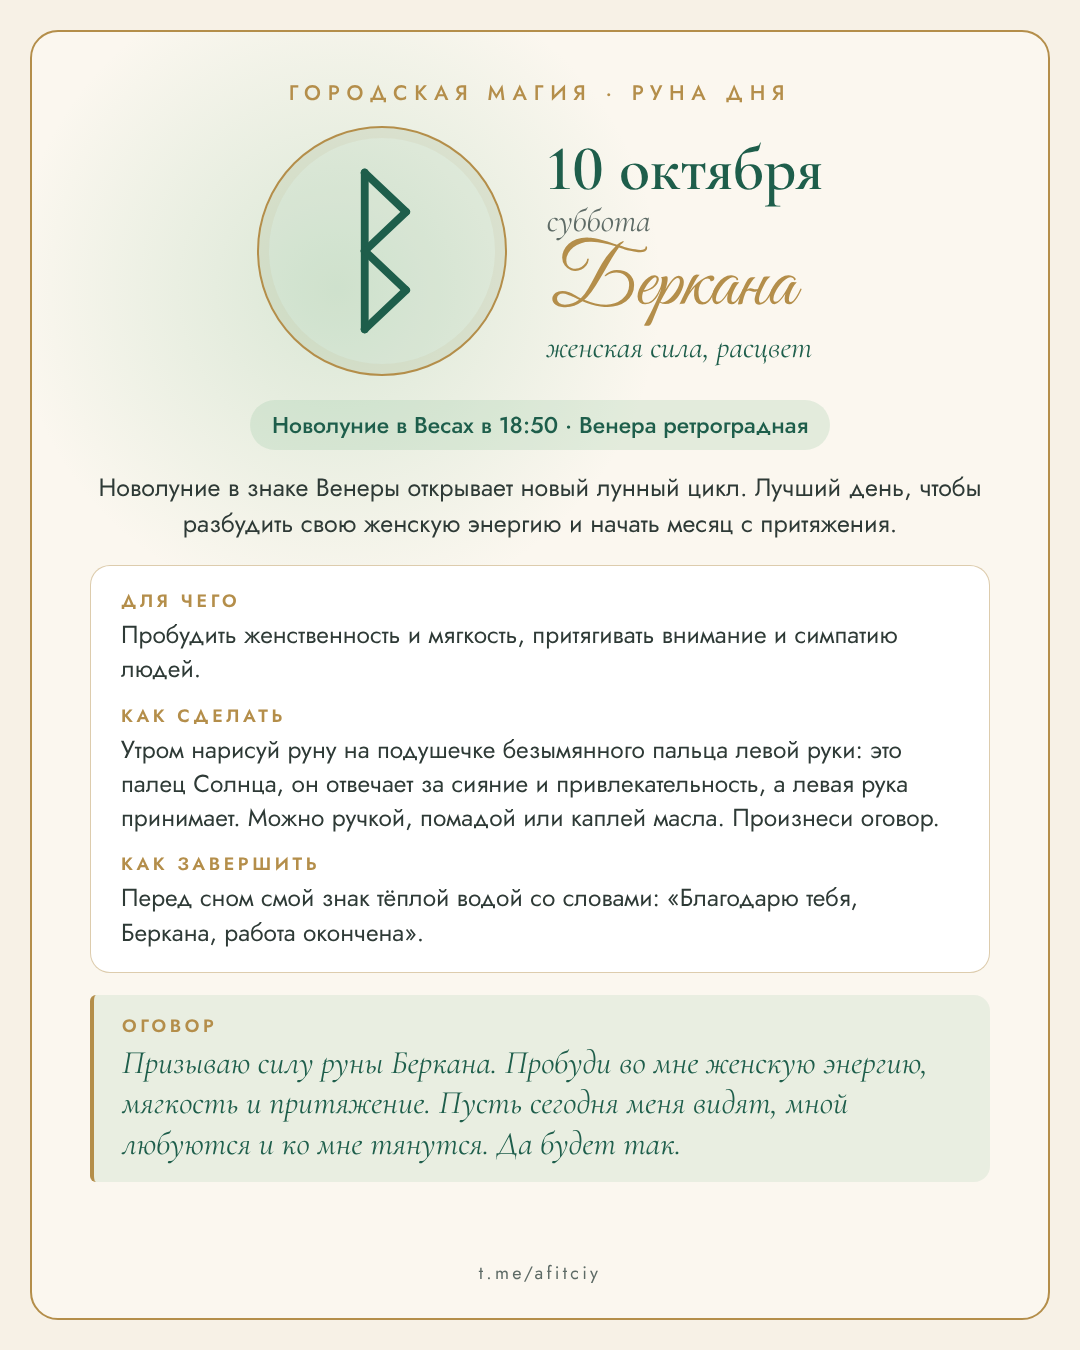
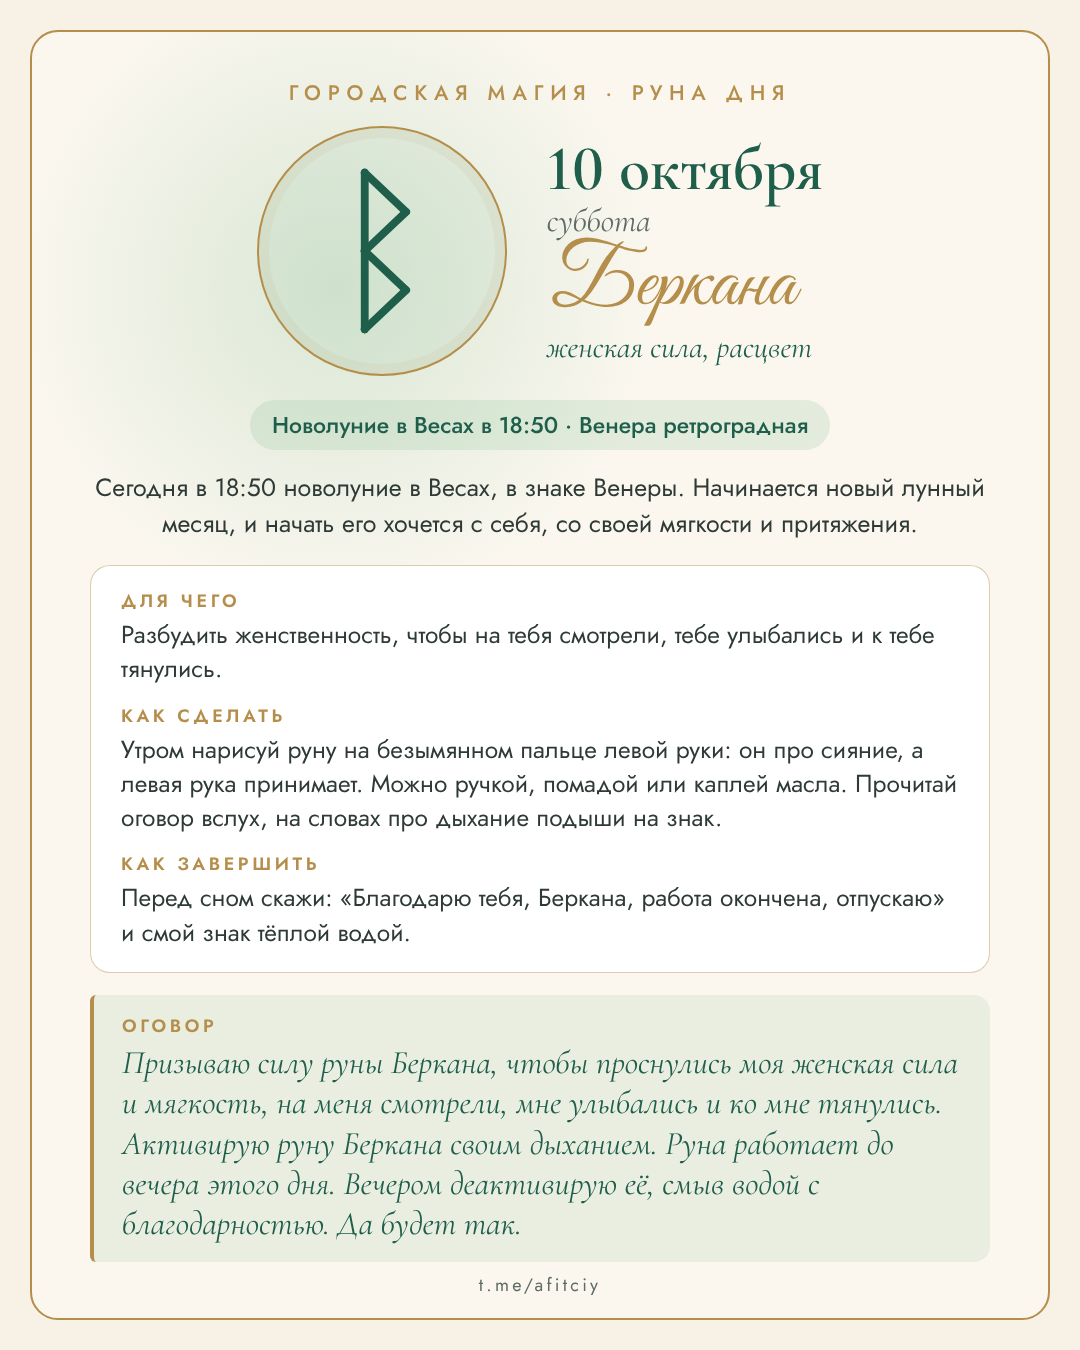
Знак дня: полный оговор в карточках 10–18 октября, живые подписи 10–25, сторис 1080x1920
Claude-Session: https://claude.ai/code/session_01AaHL27jWs85Q3tcxhpnW6r

diff --git a/daily/render.py b/daily/render.py
@@ -1,4 +1,5 @@
-"""Рисует карточки «Знак дня» из week.json в queue/ДАТА.png + queue/ДАТА.txt (подпись к посту).
+"""Рисует карточки «Знак дня» из week.json в queue/ДАТА.png + queue/ДАТА.txt (подпись к посту)
+и сторис 1080x1920 в queue/stories/ДАТА.png.
 Запуск: python3 render.py week.json"""
 import sys, json, html, pathlib, datetime as dt
 from playwright.sync_api import sync_playwright
@@ -60,14 +61,25 @@ body{{font-variant-numeric:lining-nums;width:1080px;height:1350px;background:var
 .og b{{display:block;font-size:18px;letter-spacing:.2em;color:var(--gold);font-weight:600;margin-bottom:4px}}
 .og p{{font-family:Cor;font-style:italic;font-size:33px;line-height:1.22;color:var(--em)}}
 .ft{{margin-top:auto;padding-top:10px;font-size:18px;letter-spacing:.18em;color:var(--muted)}}
+body.story{{height:1920px}}
+.story .card{{padding:140px 60px 120px}}
+.story .head{{flex-direction:column;gap:16px;margin-top:26px}}
+.story .hl{{text-align:center}}
+.story .ring{{width:270px;height:270px}}
+.story .date{{font-size:74px}} .story .name{{font-size:96px}} .story .mean{{font-size:34px}}
+.story .sky{{font-size:26px;margin-top:30px}}
+.story .txt{{font-size:28px;margin-top:22px}}
+.story .box{{margin-top:30px;padding:26px 34px}} .story .box p{{font-size:27px}} .story .box b{{font-size:20px}}
+.story .og{{margin-top:28px;padding:22px 30px}} .story .og p{{font-size:35px}} .story .og b{{font-size:20px}}
+.story .ft{{font-size:22px}}
 """
 
-def page(d):
+def page(d, story=False):
     date = dt.date.fromisoformat(d["date"])
     e = html.escape
-    return f"""<!doctype html><html><head><meta charset="utf-8"><style>{CSS}</style></head><body><div class="card">
+    return f"""<!doctype html><html><head><meta charset="utf-8"><style>{CSS}</style></head><body class="{'story' if story else ''}"><div class="card">
 <div class="top">ГОРОДСКАЯ МАГИЯ · РУНА ДНЯ</div>
-<div class="head"><div class="ring">{rune_svg(d['rune'], 190)}</div>
+<div class="head"><div class="ring">{rune_svg(d['rune'], 210 if story else 190)}</div>
 <div class="hl"><div class="date">{date.day} {MONTHS[date.month-1]}</div><div class="wd">{e(d['weekday'])}</div>
 <div class="name">{e(d['rune_name'])}</div><div class="mean">{e(d['rune_meaning'])}</div></div></div>
 <div class="sky">{e(d['sky'])}</div>
@@ -77,16 +89,23 @@ def page(d):
 <div class="ft">t.me/afitciy</div>
 </div></body></html>"""
 
+def shot(pg, d, story):
+    out = (Q / "stories") if story else Q
+    out.mkdir(exist_ok=True)
+    f = out / f"{d['date']}.html"; f.write_text(page(d, story), encoding="utf-8")
+    pg.goto(f"file://{f}"); pg.wait_for_timeout(300)
+    over = pg.evaluate("(()=>{const c=document.querySelector('.card');return c.scrollHeight-c.clientHeight})()")
+    if over > 2: print(f"ВНИМАНИЕ {d['date']}{' (сторис)' if story else ''}: текст не влезает на {over}px")
+    pg.screenshot(path=str(out / f"{d['date']}.png")); f.unlink()
+
 def main(path):
     days = json.loads(pathlib.Path(path).read_text(encoding="utf-8"))
     with sync_playwright() as p:
-        b = p.chromium.launch(); pg = b.new_page(viewport={"width":1080,"height":1350})
+        b = p.chromium.launch()
+        pg = b.new_page(viewport={"width":1080,"height":1350})
+        ps = b.new_page(viewport={"width":1080,"height":1920})
         for d in days:
-            f = Q / f"{d['date']}.html"; f.write_text(page(d), encoding="utf-8")
-            pg.goto(f"file://{f}"); pg.wait_for_timeout(300)
-            over = pg.evaluate("(()=>{const c=document.querySelector('.card');return c.scrollHeight-c.clientHeight})()")
-            if over > 2: print(f"ВНИМАНИЕ {d['date']}: текст не влезает на {over}px")
-            pg.screenshot(path=str(Q / f"{d['date']}.png")); f.unlink()
+            shot(pg, d, False); shot(ps, d, True)
             cap = d["caption"].strip()
             if len(cap) > 1024: print(f"ВНИМАНИЕ {d['date']}: подпись {len(cap)} символов, больше 1024")
             (Q / f"{d['date']}.txt").write_text(cap + "\n", encoding="utf-8")

diff --git a/daily/WEEKLY.md b/daily/WEEKLY.md
@@ -10,7 +10,8 @@
 3. Написать `daily/week.json` (формат как в прошлой неделе): date, weekday, sky (до ~50 знаков), rune, rune_name,
    rune_meaning, about (до ~170 знаков), purpose (для чего, до ~110), how (как сделать, до ~230),
    finish (как завершить, до ~120), ogovor (оговор, до ~190), caption (до 1000 знаков).
-4. `python3 daily/render.py daily/week.json`. Если пишет «не влезает», сократить текст и перерисовать.
+4. `python3 daily/render.py daily/week.json`. Рисует пост 1080x1350 в `queue/` и сторис 1080x1920 в `queue/stories/`. Если пишет «не влезает», сократить текст и перерисовать.
+   Прошлые недели хранить в `daily/weeks/ГГГГ-ММ-ДД.json`.
 5. Посмотреть картинки, закоммитить `daily/queue/` и `daily/week.json`, запушить в main.
 
 ## Руны в render.py
@@ -49,6 +50,7 @@ fehu, uruz, ansuz, kenaz, gebo, wunjo, jera, sowilo, teiwaz, berkana, laguz, ing
 - Не приписывать Елене привычек, которых у неё нет. Без хвастовства доходами.
 - Живой язык, без канцелярита и ИИ-оборотов («произнеси», «нанеси», «подушечка пальца», «ведает»). Без «не X, а Y» и сравнений.
 - В «about» и подписях астрологию переводить на жизнь: что человек почувствует сегодня, а не термины ради терминов.
+- Подписи пишутся тем же живым языком, что и карточки: никаких ИИ-оборотов и шаблонов. Не повторять из дня в день одну схему («Руна дня X, руна Y… Вечером благодарим, отпускаем, смываем»), не нанизывать тройки перечислений, не ставить эмодзи в конце каждого абзаца.
 - Подпись начинать с узнаваемой ситуации или вопроса, не с одинакового «Доброе утро» каждый день. Объяснять, какая польза от практики, чтобы захотелось повторить.
 - Призыв через кодовое слово в личку («пиши КАНАЛ», «ЧАРЫ»), как в её постах.
 - Её фразы можно использовать изредка: «И именно поэтому…», «Тот самый…», «Хочется движения…», «У кого также?».
